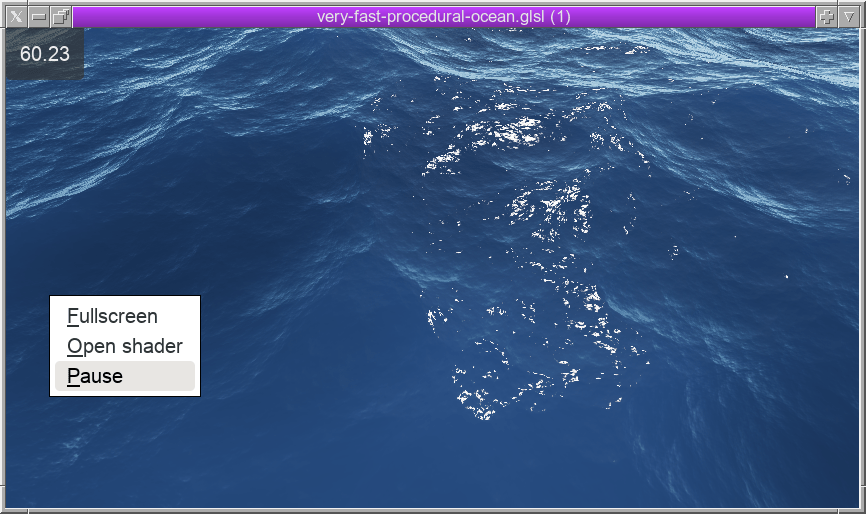
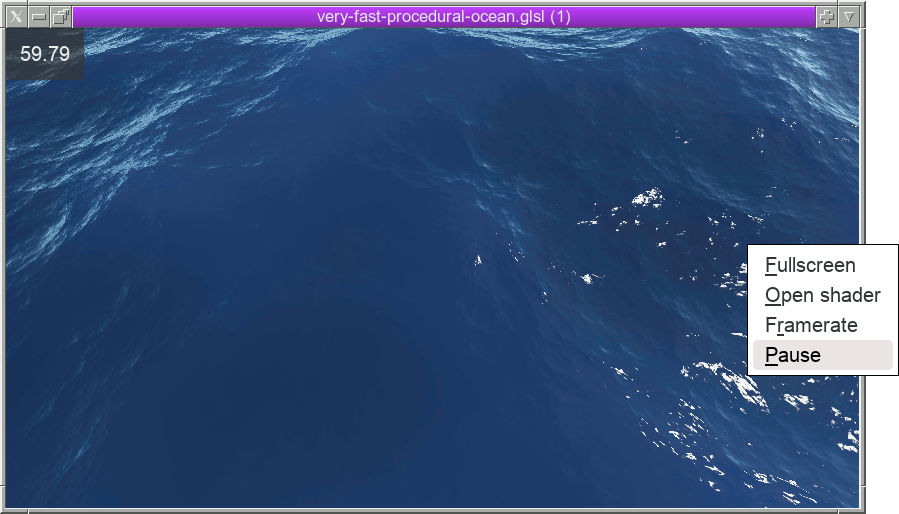
toggle the fps counter with 'r'

diff --git a/gtk4_shadertoy.c b/gtk4_shadertoy.c
@@ -11,6 +11,7 @@
 typedef struct {
   GtkWidget* shader;
   GtkWidget *fps_label;
+  GtkWidget *fps_frame;
   int shader_fps_tick;
   gboolean shader_playing;
   GtkWidget *menu;
@@ -50,16 +51,28 @@ gboolean on_toy_tick(GtkWidget* toy, GdkFrameClock* frame_clock,
   return TRUE;
 }
 
+void fps_hide(Opt *opt) {
+  gtk_widget_set_visible(opt->fps_frame, FALSE);
+  gtk_widget_remove_tick_callback(opt->shader, opt->shader_fps_tick);
+}
+
+void fps_show(Opt *opt) {
+  gtk_widget_set_visible(opt->fps_frame, TRUE);
+  opt->shader_fps_tick = gtk_widget_add_tick_callback(opt->shader, on_toy_tick, opt->fps_label, NULL);
+}
+
+void fps_toggle(Opt *opt) {
+  gtk_widget_get_visible(opt->fps_frame) ? fps_hide(opt) : fps_show(opt);
+  opt->fps = !opt->fps;
+}
+
 void shader_pause(Opt *opt) {
   if (opt->shader_playing) {
     gtk_shadertoy_pause(opt->shader);
-    if (opt->fps)
-      gtk_widget_remove_tick_callback(opt->shader, opt->shader_fps_tick);
-
+    if (opt->fps) fps_hide(opt);
   } else {
     gtk_shadertoy_resume(opt->shader);
-    if (opt->fps)
-      opt->shader_fps_tick = gtk_widget_add_tick_callback(opt->shader, on_toy_tick, opt->fps_label, NULL);
+    if (opt->fps) fps_show(opt);
   }
 
   opt->shader_playing = !opt->shader_playing;
@@ -207,7 +220,7 @@ gboolean on_keypress(GtkWidget *win, guint keyval, guint keycode,
     menu_shader_load(win, NULL, NULL);
 
   Opt *opt = g_object_get_data(G_OBJECT(win), "opt");
-  if (GDK_KEY_r == keyval) printf("%f\n", fps(opt->shader));
+  if (GDK_KEY_r == keyval) fps_toggle(opt);
   if (GDK_KEY_space == keyval) shader_pause(opt);
 
   return TRUE;
@@ -217,6 +230,11 @@ gboolean on_close(GtkWidget *w, Opt *opt) {
   if (opt->menu) gtk_widget_unparent(opt->menu);
   if (opt->below) gdk_display_beep(gtk_widget_get_display(w));
   return opt->below;
+}
+
+void menu_fps(GtkWidget *win, const char *_, GVariant *__) {
+  Opt *opt = g_object_get_data(G_OBJECT(win), "opt");
+  fps_toggle(opt);
 }
 
 void menu_pause(GtkWidget *win, const char *_, GVariant *__) {
@@ -241,6 +259,12 @@ GtkWidget* mk_menu(GtkWidget *parent, Opt *opt) {
   i = g_menu_item_new("_Open shader", "menu.shader_load");
   gtk_widget_class_install_action(GTK_WIDGET_GET_CLASS(parent),
                                   "menu.shader_load", NULL, menu_shader_load);
+  g_menu_append_item(m, i);
+  g_object_unref(i);
+
+  i = g_menu_item_new("F_ramerate", "menu.fps");
+  gtk_widget_class_install_action(GTK_WIDGET_GET_CLASS(parent),
+                                  "menu.fps", NULL, menu_fps);
   g_menu_append_item(m, i);
   g_object_unref(i);
 
@@ -285,26 +309,21 @@ void app_activate(GApplication *app, Opt *opt) {
   shader_load(opt->shader_path, GTK_WINDOW(win), opt);
   g_free(opt->shader_path);
 
-  if (opt->fps) {
-    GtkWidget *fps_overlay = gtk_overlay_new();
-    gtk_overlay_set_child(GTK_OVERLAY(fps_overlay), opt->shader);
+  GtkWidget *fps_overlay = gtk_overlay_new();
+  gtk_overlay_set_child(GTK_OVERLAY(fps_overlay), opt->shader);
 
-    GtkWidget *fps_frame = gtk_frame_new(NULL);
-    gtk_widget_set_halign(fps_frame, GTK_ALIGN_START);
-    gtk_widget_set_valign(fps_frame, GTK_ALIGN_START);
-    gtk_widget_add_css_class(fps_frame, "app-notification");
+  opt->fps_frame = gtk_frame_new(NULL);
+  gtk_widget_set_halign(opt->fps_frame, GTK_ALIGN_START);
+  gtk_widget_set_valign(opt->fps_frame, GTK_ALIGN_START);
+  gtk_widget_add_css_class(opt->fps_frame, "app-notification");
 
-    opt->fps_label = gtk_label_new("-1");
-    gtk_widget_set_halign(opt->fps_label, GTK_ALIGN_START);
-    gtk_frame_set_child(GTK_FRAME(fps_frame), opt->fps_label);
-    gtk_overlay_add_overlay(GTK_OVERLAY(fps_overlay), fps_frame);
+  opt->fps_label = gtk_label_new("-1");
+  gtk_widget_set_halign(opt->fps_label, GTK_ALIGN_START);
+  gtk_frame_set_child(GTK_FRAME(opt->fps_frame), opt->fps_label);
+  gtk_overlay_add_overlay(GTK_OVERLAY(fps_overlay), opt->fps_frame);
 
-    gtk_aspect_frame_set_child(GTK_ASPECT_FRAME(aspect), fps_overlay);
-
-    opt->shader_fps_tick = gtk_widget_add_tick_callback(opt->shader, on_toy_tick, opt->fps_label, NULL);
-  } else {
-    gtk_aspect_frame_set_child(GTK_ASPECT_FRAME(aspect), opt->shader);
-  }
+  gtk_aspect_frame_set_child(GTK_ASPECT_FRAME(aspect), fps_overlay);
+  opt->fps ? fps_show(opt) : gtk_widget_set_visible(opt->fps_frame, FALSE);
 
   g_object_set_data(G_OBJECT(win), "opt", opt); // for on_keypress()
   gtk_window_present(GTK_WINDOW(win));

diff --git a/README.md b/README.md
@@ -9,12 +9,12 @@ Right click for menu or
 kbd               | desc
 ----------------- | -------------
 <kbd>f</kbd>      | fullscreen
-<kbd>r</kbd>      | print the current framerate to stdout
+<kbd>r</kbd>      | toggle an FPS overlay
 <kbd>esc</kbd>    | close window
 <kbd>space</kbd>  | pause
 <kbd>ctrl-o</kbd> | open another shader
 
-Run fullscreen (-f) and show an FPS overlay (-r):
+Run fullscreen (-f) and show the FPS overlay (-r):
 
     $ gtk4_shadertoy -fr < file.glsl
 
